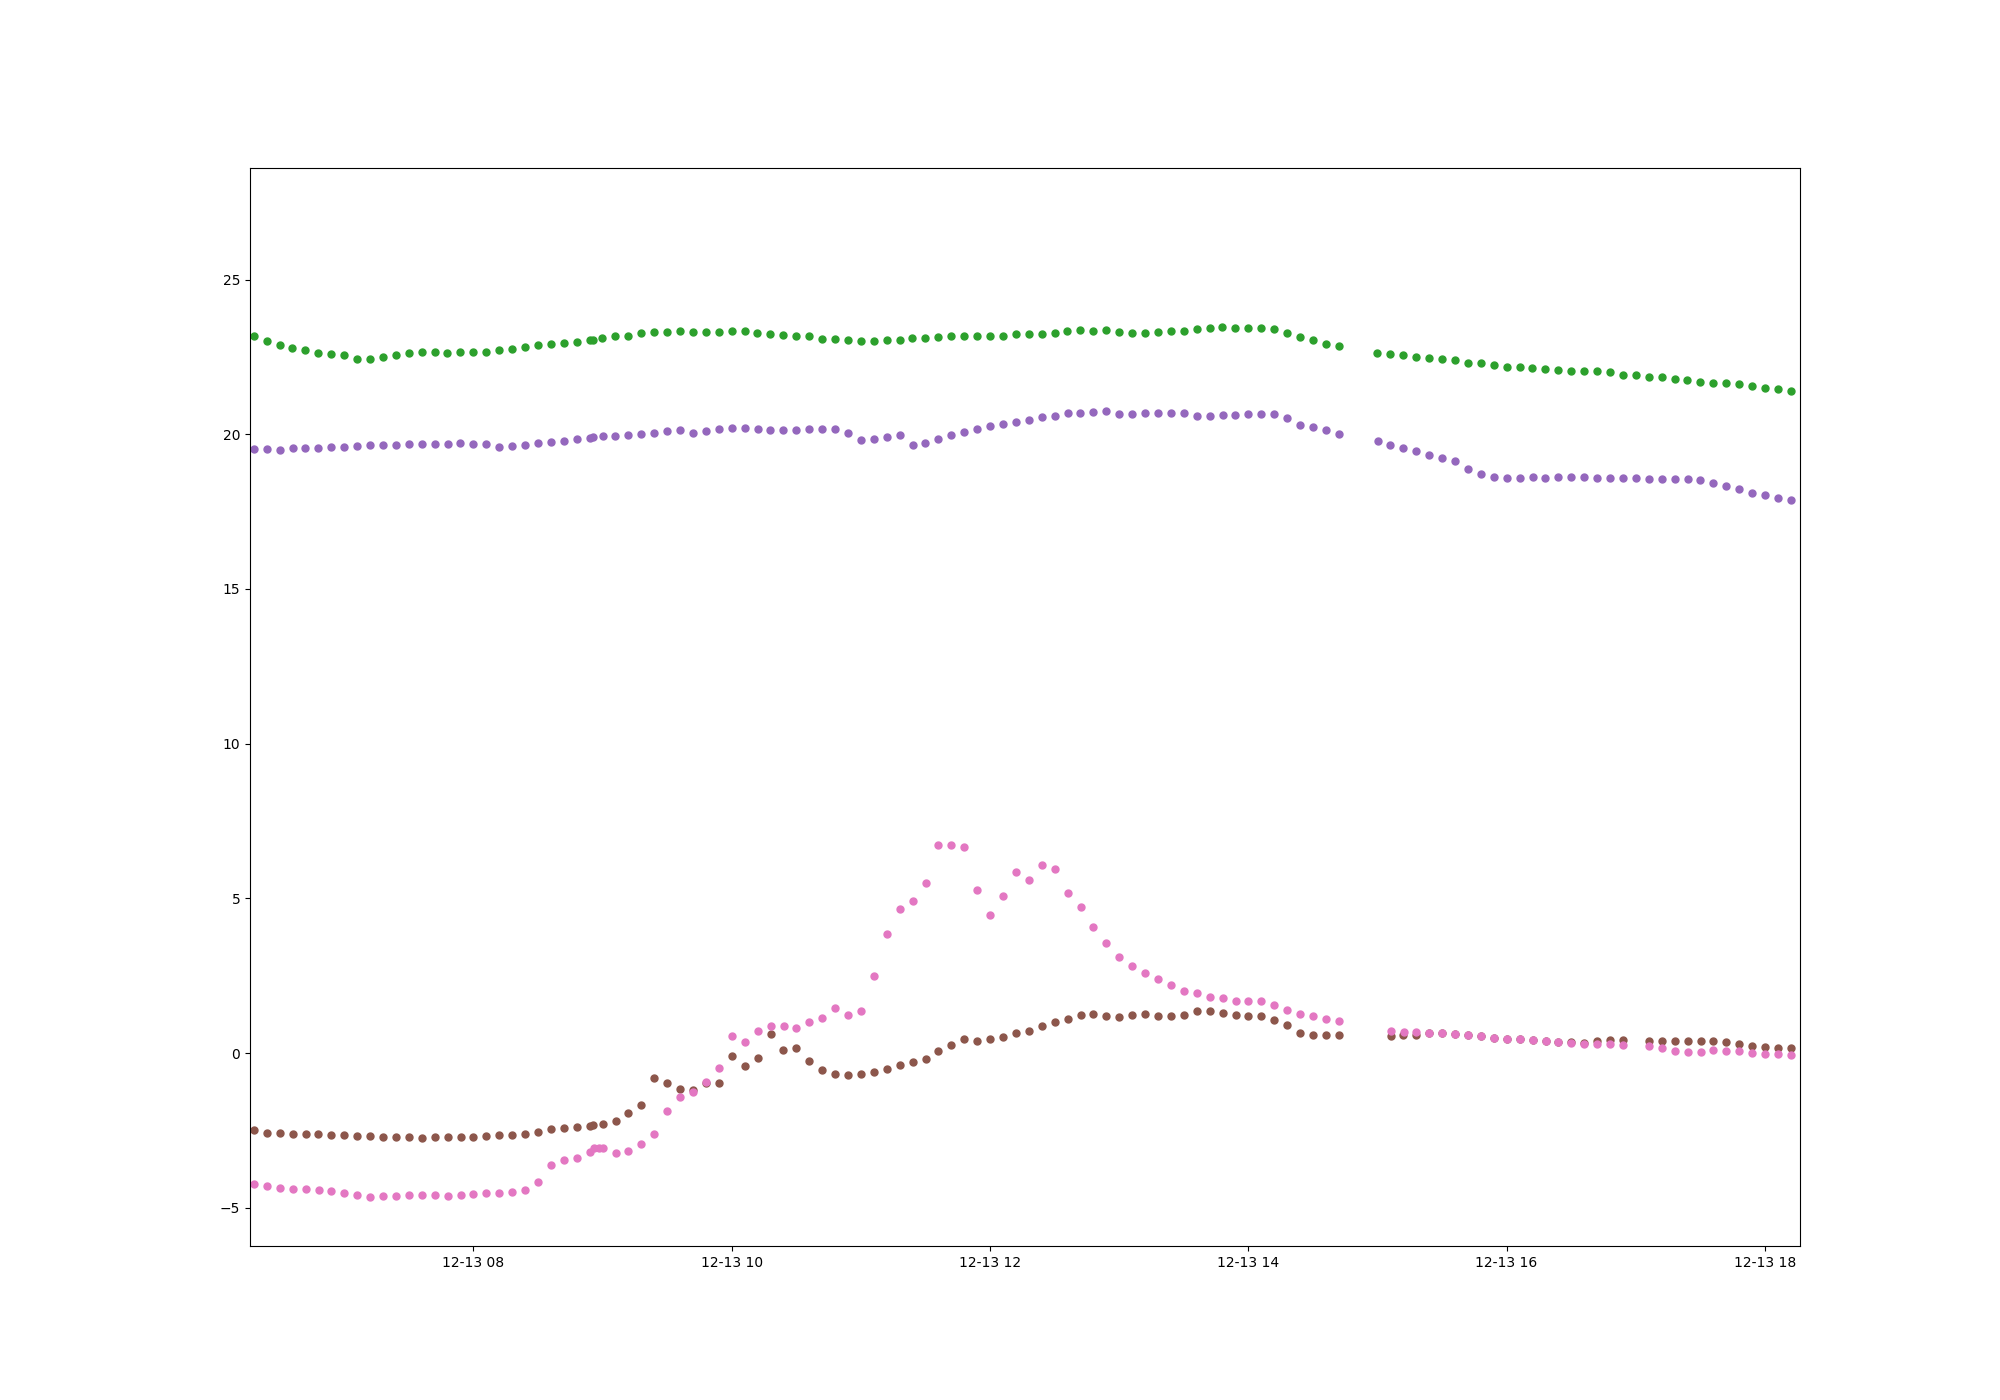
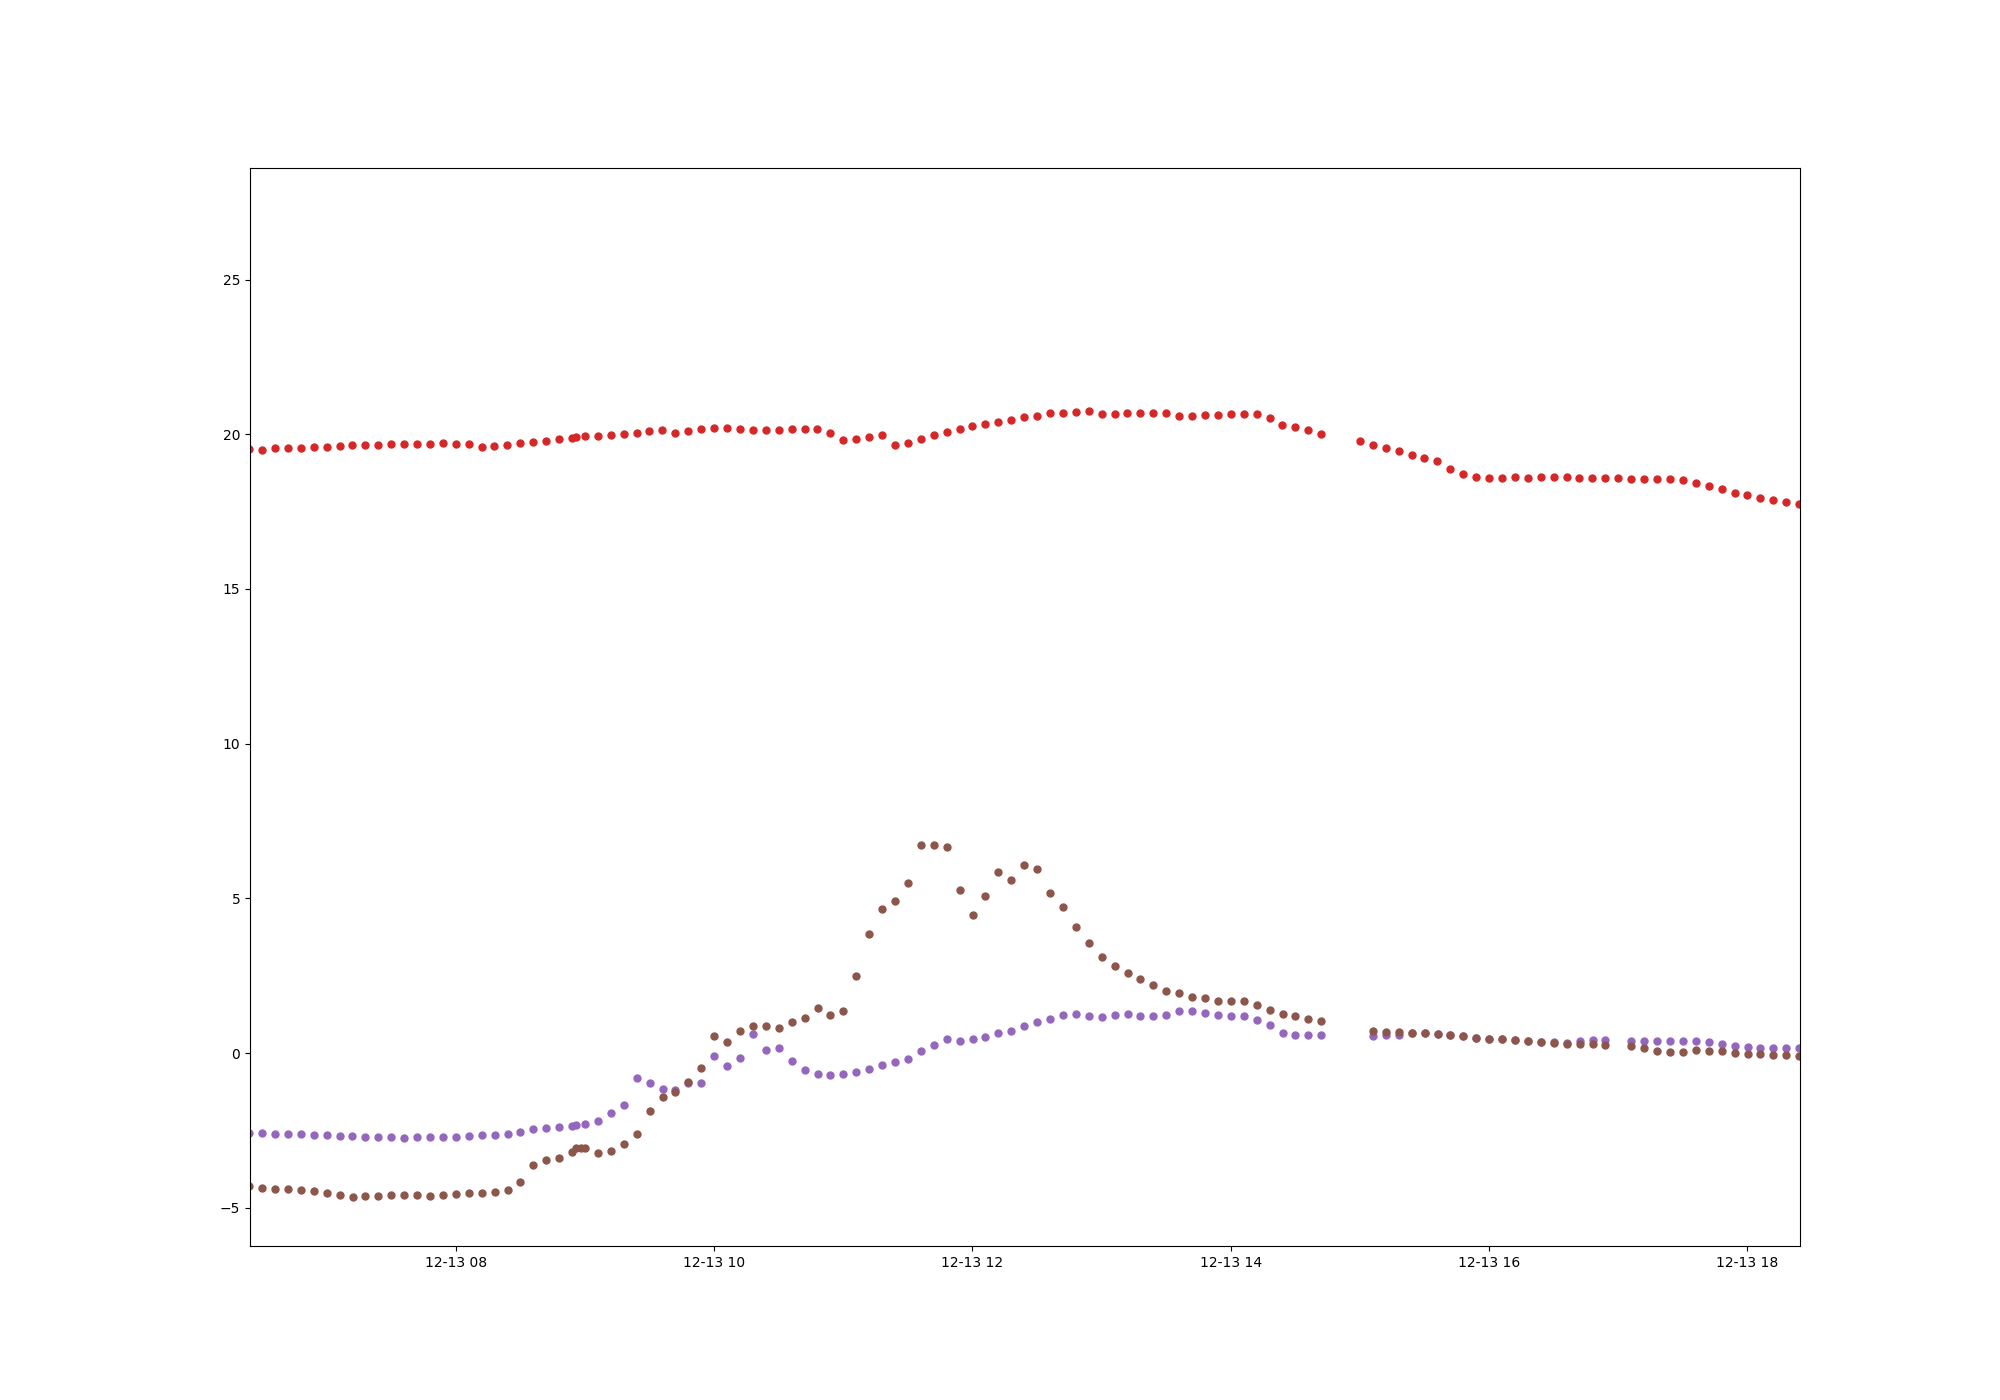
add data

diff --git a/exploitation.py b/exploitation.py
@@ -4,7 +4,7 @@ import matplotlib.pyplot as plt
 
 nb_bases = 7
 
-ignored = [4]
+ignored = [4, 1]
 
 bases = []
 times = []
@@ -24,16 +24,16 @@ for i in range(nb_bases):
             if len(sp) >= 2:
                 times[i].append(datetime.fromtimestamp(int(sp[0])))
                 bases[i].append(float(sp[1]))
-            
+
 
 plt.figure(0, figsize=(20,14))
 
 for i in range(nb_bases):
+    if i+i in ignored:
+        continue
     plt.plot(times[i], bases[i], "o", markersize=5.0)
 
 plt.xlim([datetime.now() + timedelta(days=-1), datetime.now()])
-
-# plt.show()
 plt.savefig("24hours.png")
 
 plt.xlim([datetime.now() + timedelta(hours=-12), datetime.now()])
